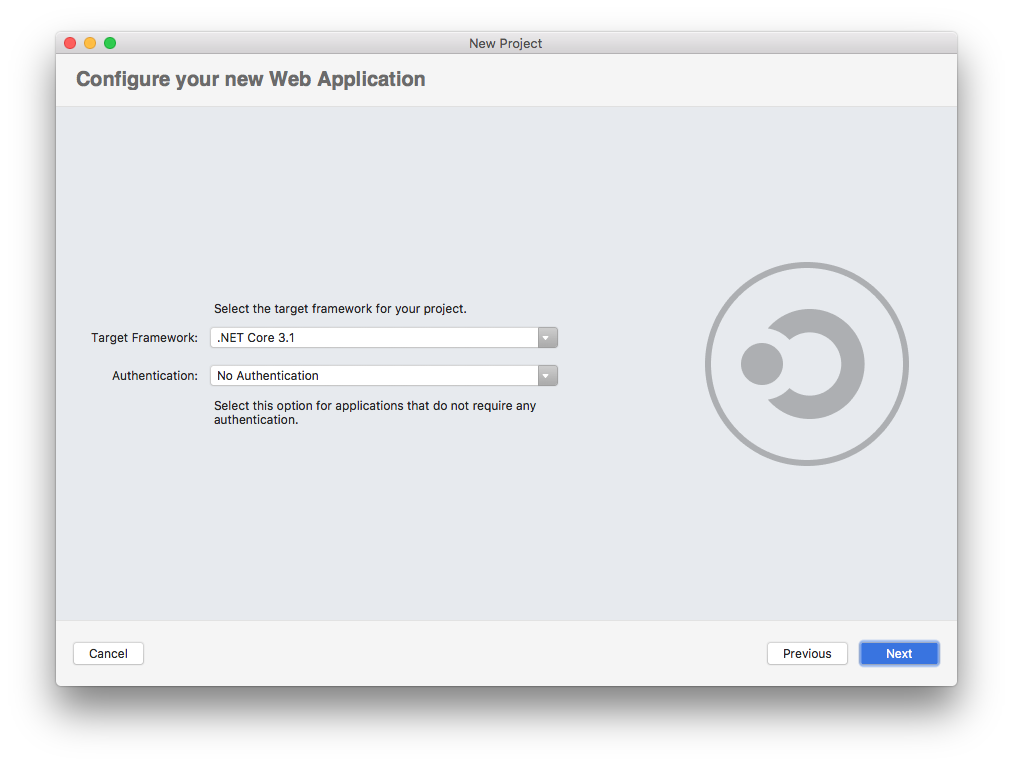
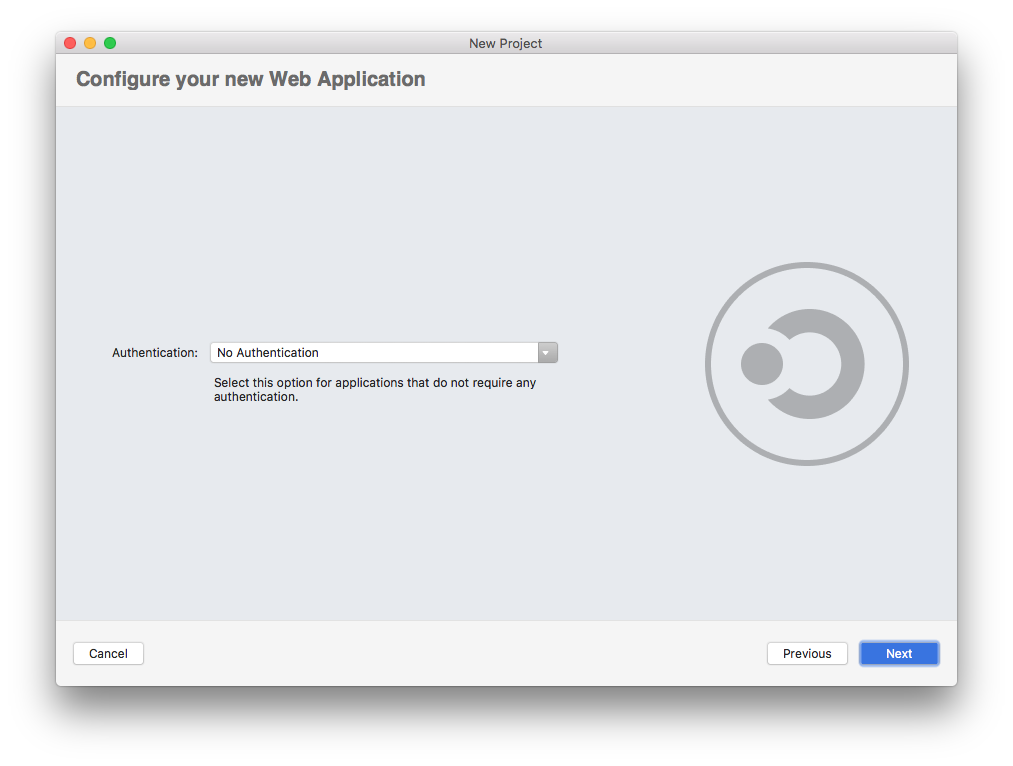
Update VS4Mac UI in tutorials

Changed region(s): [[0.0918, 0.3903, 0.5508, 0.5705]]

diff --git a/aspnetcore/tutorials/razor-pages/razor-pages-start.md b/aspnetcore/tutorials/razor-pages/razor-pages-start.md
@@ -96,12 +96,7 @@ At the end of this tutorial, you'll have a working Razor Pages web app that you'
 
   ![macOS web app template selection](razor-pages-start/_static/web_app_template_vsmac.png)
 
-* Confirm the following configurations:
-
-  * **Target Framework** set to **.NET Core 3.1**.
-  * **Authentication** set to **No Authentication**.
-   
-  Select **Next**.
+* Confirm that **Authentication** is set to **No Authentication**. Select **Next**.
 
   ![macOS .NET Core 3.1 selection](razor-pages-start/_static/targetframework3.png)
 

diff --git a/aspnetcore/tutorials/first-mvc-app/start-mvc.md b/aspnetcore/tutorials/first-mvc-app/start-mvc.md
@@ -93,12 +93,7 @@ The tutorial assumes familarity with VS Code. See [Getting started with VS Code]
 
   ![macOS web app template selection](start-mvc/_static/web_app_template_vsmac.png)
 
-* Confirm the following configurations:
-
-  * **Target Framework** set to **.NET Core 3.1**.
-  * **Authentication** set to **No Authentication**.
-   
-  Select **Next**.
+* Confirm that **Authentication** is set to **No Authentication**. Select **Next**.
 
   ![macOS .NET Core 3.1 selection](start-mvc/_static/new_project_31_vsmac.png)
 
